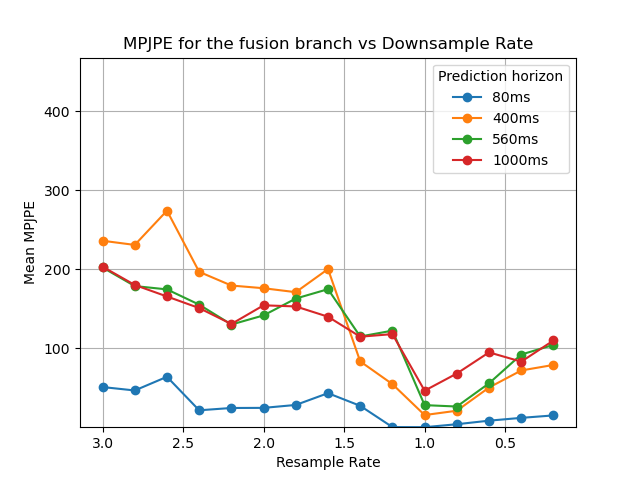
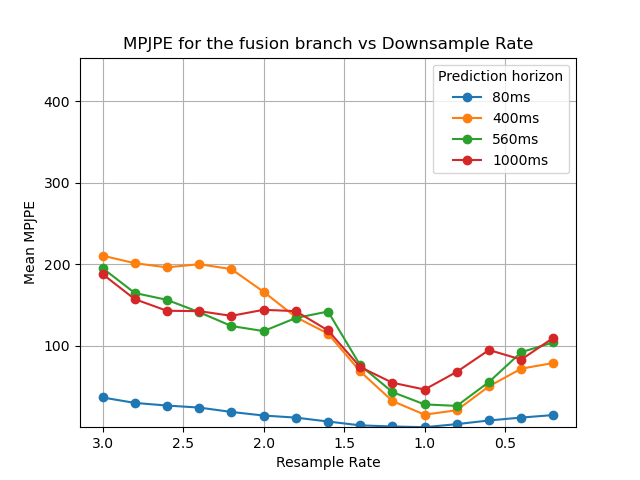
Do resampling with a better sersion

diff --git a/exps/run/single_evaluate_physmop.py b/exps/run/single_evaluate_physmop.py
@@ -14,10 +14,75 @@ import matplotlib.pyplot as plt
 from tqdm import tqdm
 
 import torch.nn.functional as F
-
-
-
 import os
+import math
+
+def _hann_lowpass_1d(x, cutoff_frac, k_min=5):
+    """
+    x: [B, T, F...] (time=dim1). cutoff_frac in (0,1], relative to Nyquist (1.0 == Nyquist).
+    Simple Hann-windowed low-pass via depthwise 1D conv along time.
+    """
+    B, T = x.shape[0], x.shape[1]
+    if T < 3:
+        return x
+
+    # Kernel length ~ 8/cutoff; keep odd
+    k = max(k_min, int(math.ceil(8 / max(1e-6, cutoff_frac)))) | 1
+    t = torch.arange(k, device=x.device, dtype=x.dtype)
+    n = t - (k - 1) / 2
+
+    # cutoff_frac is relative to Nyquist=0.5 cycles/sample -> normalized cutoff fc (cycles/sample)
+    fc = 0.5 * cutoff_frac  # so cutoff_frac=1.0 means fc=0.5 (Nyquist)
+    # sinc kernel (torch.sinc uses π-normalization: sinc(x)=sin(πx)/(πx))
+    h = torch.sinc((2 * fc) * n)
+    # Hann window
+    w = 0.5 - 0.5 * torch.cos(2 * math.pi * (t / (k - 1)))
+    h = (h * w).to(x.dtype)
+    h = h / h.sum()  # DC gain = 1
+
+    pad = k // 2
+    x_flat = x.reshape(B, T, -1).transpose(1, 2)  # [B, F, T]
+    h = h.view(1, 1, k).to(x.device, x.dtype)
+    y = F.conv1d(F.pad(x_flat, (pad, pad), mode='replicate'),
+                 h.expand(x_flat.shape[1], 1, k),
+                 groups=x_flat.shape[1])
+    return y.transpose(1, 2).reshape_as(x)
+
+def resample_with_history_boundary_anchored(x_hist, N, alpha, antialias = True):
+    """
+    Resample a sequence x_hist of length L to a new length N, keeping the last frame fixed.
+    The resampling is anchored at the history boundary (last frame of x_hist).
+    Args:
+        x_hist: Input sequence of shape (L, D)
+        N: Desired output length
+        alpha: Resampling factor (N / L)
+        antialias: Whether to apply anti-aliasing filter when downsampling
+    """
+    B, T_h = x_hist.shape[0], x_hist.shape[1]
+
+    # Anti-alias if downsampling
+    if antialias and alpha > 1.0 and T_h > 8:
+        # cutoff relative to Nyquist: 1/alpha (<=1). Use a small safety margin.
+        cutoff_frac = min(1.0 / alpha, 0.9)
+        x_hist = _hann_lowpass_1d(x_hist, cutoff_frac)
+    
+    # Build target times anchored at the last frame
+    t_last = T_h - 1
+    t = torch.arange(N, device=x_hist.device, dtype=x_hist.dtype)
+    t_target = t_last - t * float(alpha)                # newest->oldest
+    # print("Resampling with alpha =", alpha)
+    # print("t_target before clamp:", t_target)
+    t_target = torch.clamp(t_target, 0, T_h - 1)
+
+    t0 = torch.floor(t_target).long()
+    t1 = torch.clamp(t0 + 1, max=T_h - 1)
+    w = (t_target - t0.to(t_target.dtype)).view(1, N, *([1] * (x_hist.dim() - 2)))
+
+    x0 = x_hist[:, t0, ...]
+    x1 = x_hist[:, t1, ...]
+    y  = (1 - w) * x0 + w * x1
+    # reverse to chronological order (oldest -> newest)
+    return torch.flip(y, dims=[1])
 
 
 time_idx = [2, 10, 14, 25]
@@ -90,36 +155,29 @@ if __name__ == "__main__":
 
                 if downsample_rate >= 1.0 or np.isclose(downsample_rate, 1.0):
                     # Downsample only the input part, then take the next output_len frames at original rate
-                    # Compute how many source frames we need for the input
-                    src_input_span = int(np.round(input_len * downsample_rate))
-
-                    # choose a start index in the original batch time axis (here 0 -> start of sequence)
-                    start_index = 0
-                    input_src_end = start_index + src_input_span - 1
-
-                    # build input indices (evenly spaced over the source span)
-                    input_indices = np.round(np.linspace(start_index, input_src_end, input_len)).astype(int)
-
                     for k, v in batch.items():
                         if not isinstance(v, torch.Tensor):
                             processed_batch[k] = v
                             continue
 
-                        # time axis is axis=1: [batch, time, ...]
-                        max_t = v.shape[1] - 1
-                        input_indices_clipped = np.clip(input_indices, 0, max_t)
+                        # 1) Take the original input history support on the native grid
+                        src_input = v[:, :int(round(input_len * downsample_rate)), ...]  # [B, input_len, ...] chronological
 
-                        # last input index (in source)
-                        last_input_idx = int(input_indices_clipped[-1])
-                        # output indices are the next output_len frames at the original sampling rate
-                        output_indices = np.arange(last_input_idx + 1, last_input_idx + 1 + output_len)
-                        output_indices = np.clip(output_indices, 0, max_t)
+                        # 2) Resample the input history uniformly at factor alpha, anchored at the boundary
+                        #    (no jitter, no duplicates; with anti-alias for alpha>1)
+                        res_in = resample_with_history_boundary_anchored(src_input, input_len, float(downsample_rate), antialias=True)
 
-                        # gather and concatenate along time axis
-                        # use torch.index_select for tensors
-                        in_sel = torch.index_select(v, 1, torch.from_numpy(input_indices_clipped).to(v.device))
+                        # 3) Keep output at original sampling rate, aligned to the original boundary
+                        # original_last_input_idx = int(round(input_len * downsample_rate)) - 1
+                       
+                        output_indices = np.arange(int(round(input_len * downsample_rate)),
+                                                int(round(input_len * downsample_rate)) + output_len)
+                        # print("Output indices:", output_indices)
+                        output_indices = np.clip(output_indices, 0, v.shape[1] - 1)
                         out_sel = torch.index_select(v, 1, torch.from_numpy(output_indices).to(v.device))
-                        processed_batch[k] = torch.cat([in_sel, out_sel], dim=1)
+
+                        # 4) Concatenate input (resampled) + output (original grid)
+                        processed_batch[k] = torch.cat([res_in, out_sel], dim=1)
 
                 else:
                     # Upsample input: interpolate the input portion, then take following output frames
@@ -190,7 +248,7 @@ if __name__ == "__main__":
         np.savetxt("mpjpe_physmop_physics.txt", mpjpe_physics_gt_all, delimiter=",")
         np.savetxt("mpjpe_physmop_fusion.txt", mpjpe_fusion_all, delimiter=",")
 
-    mjpe_gcnext_all = np.loadtxt("mpjpe_data_all.txt", delimiter=",")
+    mjpe_gcnext_all = np.loadtxt("mpjpe_gcnext.txt", delimiter=",")
 
     branch_results = {
         "data": mpjpe_data_all,

diff --git a/exps/run/single_evaluate_realtime.py b/exps/run/single_evaluate_realtime.py
@@ -17,30 +17,71 @@ from prediction_times import prediction_times
 from visualize_motion import visualize_continuous_motion
 
 import torch.nn.functional as F
+import math
 
-def resample_sequence(sequence, downsample_rate, total_length, start_idx = 0):
+def hann_lowpass_1d(x, cutoff_frac, k_min=5):
+    """
+    x: [T, J, 3] (time=dim0). cutoff_frac in (0,1], relative to Nyquist (1.0 == Nyquist).
+    Simple Hann-windowed low-pass via depthwise 1D conv along time.
+    """
+    T = x.shape[0]
+    if T < 3:
+        return x
+    k = max(k_min, int(math.ceil(8 / max(1e-6, cutoff_frac)))) | 1
+    t = torch.arange(k, device=x.device, dtype=x.dtype)
+    n = t - (k - 1) / 2
+    fc = 0.5 * cutoff_frac
+    h = torch.sinc((2 * fc) * n)
+    w = 0.5 - 0.5 * torch.cos(2 * math.pi * (t / (k - 1)))
+    h = (h * w).to(x.dtype)
+    h = h / h.sum()
+    pad = k // 2
+    # [T, J, 3] -> [J*3, T]
+    x_flat = x.reshape(T, -1).transpose(0, 1)
+    h = h.view(1, 1, k).to(x.device, x.dtype)
+    y = F.conv1d(F.pad(x_flat.unsqueeze(0), (pad, pad), mode='replicate'),
+                 h.expand(x_flat.shape[0], 1, k),
+                 groups=x_flat.shape[0])
+    y = y.squeeze(0).transpose(0, 1).reshape(T, x.shape[1], x.shape[2])
+    return y
+
+def resample_sequence(sequence, downsample_rate, total_length, start_idx = 0, antialias=True):
     """
     Resample a sequence (downsample or upsample) to match the logic in single_evaluate_physmop.py.
-
     Args:
         sequence: torch.Tensor, shape [num_frames, num_joints, 3]
         downsample_rate: float
         total_length: int, number of frames to output
-
     Returns:
         torch.Tensor, shape [total_length, num_joints, 3]
     """
+    device = sequence.device
+    dtype = sequence.dtype
     if downsample_rate >= 1.0 or np.isclose(downsample_rate, 1.0):
-        # Downsample: select frames at intervals
-        start_index = start_idx
-        end_index = int(total_length * downsample_rate) + start_idx
-        indices = np.round(np.linspace(start_index, end_index, total_length)).astype(int)
-        indices = np.clip(indices, 0, sequence.shape[0] - 1)
-        return sequence[indices]
+        # Downsample: interpolate with anti-aliasing
+        src_span = int(round(total_length * downsample_rate))
+        src_end = min(start_idx + src_span, sequence.shape[0])
+        src_seq = sequence[start_idx:src_end]
+        # Anti-aliasing
+        if antialias and downsample_rate > 1.0 and src_seq.shape[0] > 8:
+            cutoff_frac = min(1.0 / downsample_rate, 0.9)
+            src_seq = hann_lowpass_1d(src_seq, cutoff_frac)
+        # Interpolate
+        t_src = torch.arange(src_seq.shape[0], device=device, dtype=dtype)
+        t_target = torch.linspace(src_seq.shape[0] - 1, 0, total_length, device=device, dtype=dtype)
+        t_target = torch.clamp(t_target, 0, src_seq.shape[0] - 1)
+        t0 = torch.floor(t_target).long()
+        t1 = torch.clamp(t0 + 1, max=src_seq.shape[0] - 1)
+        w = (t_target - t0.to(dtype)).view(-1, 1, 1)
+        x0 = src_seq[t0]
+        x1 = src_seq[t1]
+        y = (1 - w) * x0 + w * x1
+        # Reverse to chronological order
+        y = torch.flip(y, dims=[0])
+        return y
     else:
         # Upsample: interpolate to more frames
         upsample_factor = 1.0 / downsample_rate
-        # Slice the sequence at start_idx before upsampling
         seq_slice = sequence[start_idx : start_idx + total_length]
         orig_time_steps = seq_slice.shape[0]
         new_time_steps = int(np.round(orig_time_steps * upsample_factor))
@@ -150,9 +191,6 @@ for walking_sample, _ in dataset.get_full_sequences_for_action(action):
     latency_times = []
     downsample_rates = np.arange(3, 0.1, -0.2)  # From 3 to 0.1, step -0.2
 
-
-    # ...existing code...
-
     input_len = config.motion.h36m_input_length
     output_len = config.motion.h36m_target_length_eval
 
@@ -174,15 +212,17 @@ for walking_sample, _ in dataset.get_full_sequences_for_action(action):
         print(f"Max start idx: {max_start_idx}")
         for start_idx in tqdm(range(0, max_start_idx + 1, stride), desc="Processing"):
             # 1. Resample only the input part
-            input_indices = np.round(np.linspace(start_idx, start_idx + input_len * downsample_rate, input_len)).astype(int)
-            input_indices = np.clip(input_indices, 0, walking_sample.shape[0] - 1)
-            input_resampled = walking_sample[input_indices]
+            src_span = int(round(input_len * downsample_rate))
+            src_end = min(start_idx + src_span, walking_sample.shape[0])
+            input_resampled = resample_sequence(
+                                walking_sample,
+                                downsample_rate,
+                                input_len,
+                                start_idx=start_idx,
+                                antialias=True
+                            )
 
-            # 2. The last index of the input
-            last_input_idx = input_indices[-1]
-
-            # 3. Output: take the next output_len frames at original rate
-            output_start = last_input_idx + 1
+            output_start = src_end
             output_end = output_start + output_len
             # Make sure we don't go out of bounds
             if output_end > walking_sample.shape[0]:
@@ -202,12 +242,14 @@ for walking_sample, _ in dataset.get_full_sequences_for_action(action):
             mpjpe_data_per_downsample_rate.append(mpjpe_data)
             # visualize_continuous_motion(walking_sample_resampled, skeleton_type='h36m',
             #                             save_gif_path='output_{}.gif'.format(downsample_rate))
+            # break
+        # break
         mpjpe_data_per_sample.append(np.mean(np.array(mpjpe_data_per_downsample_rate), axis=0))
     mpjpe_data_all.append(np.array(mpjpe_data_per_sample))
 print(np.array(mpjpe_data_all).shape)
 mpjpe_data_all = np.mean(np.array(mpjpe_data_all), axis=0)  # shape: (num_downsample_rates, 4)
 
-np.savetxt("mpjpe_data_all.txt", mpjpe_data_all, delimiter=",")
+np.savetxt("mpjpe_gcnext.txt", mpjpe_data_all, delimiter=",")
 
 plt.figure()
 for i, label in enumerate(["80ms", "400ms", "560ms", "1000ms"]):
